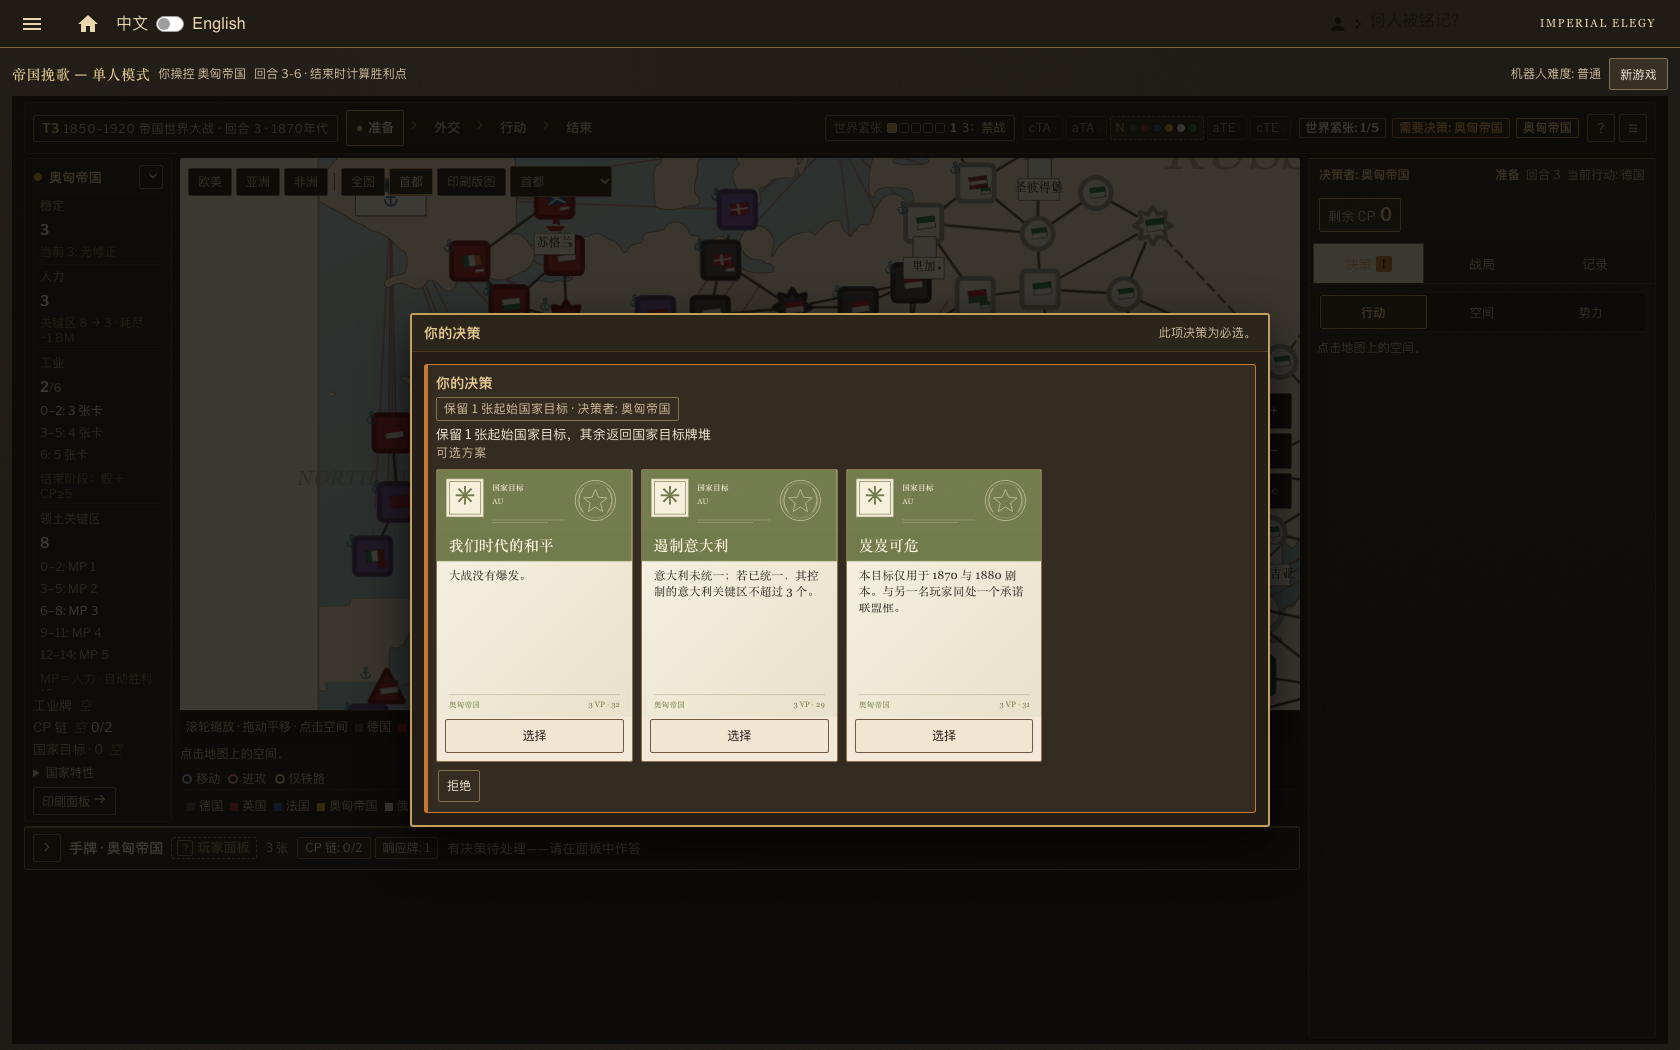
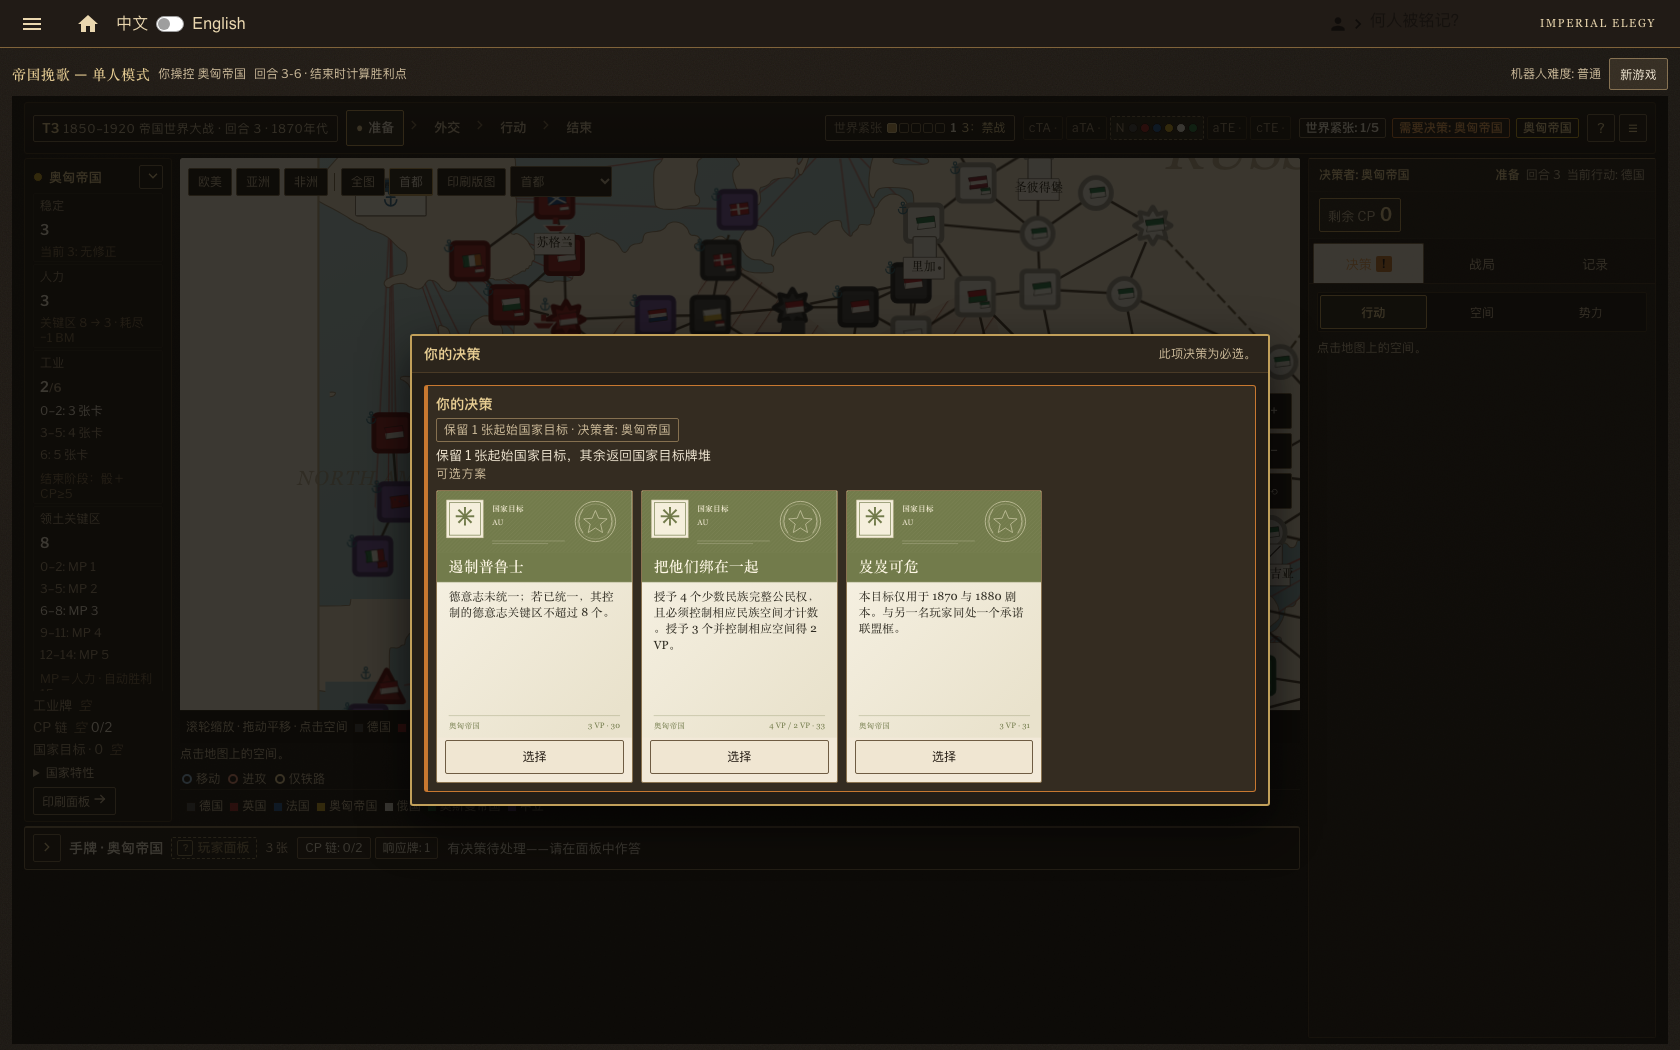
fix(ie): keep the generic decline off the mandatory setup decisions
The opening National Goal choice, the 1870/1880 NG-deck edit and the
Franco-Prussian concession are all mandatory setup decisions; declining them
only re-opened the same pending.  Hide 拒绝 for them like the other mandatory
kinds, and refresh the QA screenshots.

Changed region(s): [[0.2476, 0.2743, 0.619, 0.6095], [0.2476, 0.6705, 0.7738, 0.7924], [0.681, 0.3048, 0.7429, 0.3657]]

diff --git a/src/imperialElegy/components/board.test.tsx b/src/imperialElegy/components/board.test.tsx
@@ -175,6 +175,21 @@ describe("Imperial Elegy board controls", () => {
     expect(buttonTag(markup, "ie-pending-option-decline")).toBe("");
   });
 
+  test("the opening National Goal choice is mandatory (no generic refuse)", () => {
+    const G = freshGame();
+    G.pending = {
+      id: "d-goal",
+      kind: "startingGoal",
+      power: "GE",
+      prompt: "Keep one starting National Goal",
+      options: [{id: "NG-01", label: "European Keys"}],
+      createdAt: 1,
+    };
+    const markup = html(G, "0");
+    expect(markup).toContain('data-testid="ie-pending-option-NG-01"');
+    expect(buttonTag(markup, "ie-pending-option-decline")).toBe("");
+  });
+
   test("pending decision renders options and highlights legal spaces", () => {
     const G = freshGame();
     G.pending = {

diff --git a/src/imperialElegy/components/useBoardModel.ts b/src/imperialElegy/components/useBoardModel.ts
@@ -79,6 +79,12 @@ const MANDATORY_PENDING_KINDS: ReadonlySet<string> = new Set([
   "manpowerExcess",
   "allianceTie",
   "goalChoice",
+  // 2.4/20.11 ("keep one, return the other two") and the 1870/1880 printed
+  // setup choices: every one of these must be answered, so the generic 拒绝
+  // must not be offered.  Declining them only re-opens the same decision.
+  "startingGoal",
+  "scenarioGoalChoice",
+  "francoPrussianConcession",
 ]);
 
 export interface BoardModelProps {
